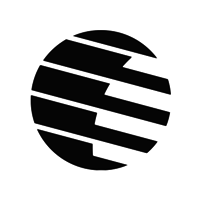
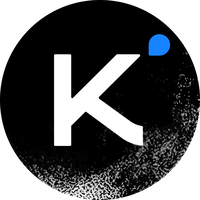
feat: Update Moonshot(Kimi) configs (#8372)
* feat:update kimi setting

* feat:update kimi logo

* mergei18n

* 仅修复 eslint error

Improves code readability by reformatting Moonshot provider configuration and related ternary expressions. Indentation and spacing are adjusted for consistency, with no functional changes.

* change kimi logo to 200x200

* update

* update 2 warnings in AssistantModelSettings.tsx

* fix: lint error

* fix: test error

---------

diff --git a/src/renderer/src/config/models.ts b/src/renderer/src/config/models.ts
@@ -285,6 +285,10 @@ export function isFunctionCallingModel(model?: Model): boolean {
     return true
   }
 
+  if (['kimi', 'moonshot'].includes(model.provider)) {
+    return true
+  }
+
   return FUNCTION_CALLING_REGEX.test(model.id)
 }
 
@@ -1267,7 +1271,21 @@ export const SYSTEM_MODELS: Record<string, Model[]> = {
       name: 'moonshot-v1-auto',
       provider: 'moonshot',
       group: 'moonshot-v1',
-      owned_by: 'moonshot'
+      owned_by: 'moonshot',
+      type: ['text', 'function_calling']
+    },
+    {
+      id: 'kimi-k2-0711-preview',
+      name: 'kimi-k2-0711-preview',
+      provider: 'moonshot',
+      group: 'kimi-k2',
+      owned_by: 'moonshot',
+      type: ['text', 'function_calling'],
+      pricing: {
+        input_per_million_tokens: 0.6,
+        output_per_million_tokens: 2.5,
+        currencySymbol: 'USD'
+      }
     }
   ],
   baichuan: [

diff --git a/src/renderer/src/pages/settings/AssistantSettings/AssistantModelSettings.tsx b/src/renderer/src/pages/settings/AssistantSettings/AssistantModelSettings.tsx
@@ -180,8 +180,15 @@ const AssistantModelSettings: FC<Props> = ({ assistant, updateAssistant, updateA
         model: selectedModel,
         defaultModel: selectedModel
       })
+      if (selectedModel.name.includes('kimi-k2')) {
+        setTemperature(0.6)
+        setTimeout(() => updateAssistantSettings({ temperature: 0.6 }), 500)
+      } else if (selectedModel.name.includes('moonshot')) {
+        setTemperature(0.3)
+        setTimeout(() => updateAssistantSettings({ temperature: 0.3 }), 500)
+      }
     }
-  }, [assistant, defaultModel, updateAssistant])
+  }, [assistant, defaultModel, updateAssistant, updateAssistantSettings])
 
   useEffect(() => {
     return () => updateAssistantSettings({ customParameters: customParametersRef.current })

diff --git a/src/renderer/src/config/providers.ts b/src/renderer/src/config/providers.ts
@@ -327,7 +327,7 @@ export const PROVIDER_CONFIG = {
       url: 'https://api.moonshot.cn'
     },
     websites: {
-      official: 'https://moonshot.ai/',
+      official: 'https://www.moonshot.cn/',
       apiKey: 'https://platform.moonshot.cn/console/api-keys',
       docs: 'https://platform.moonshot.cn/docs/',
       models: 'https://platform.moonshot.cn/docs/intro#%E6%A8%A1%E5%9E%8B%E5%88%97%E8%A1%A8'
